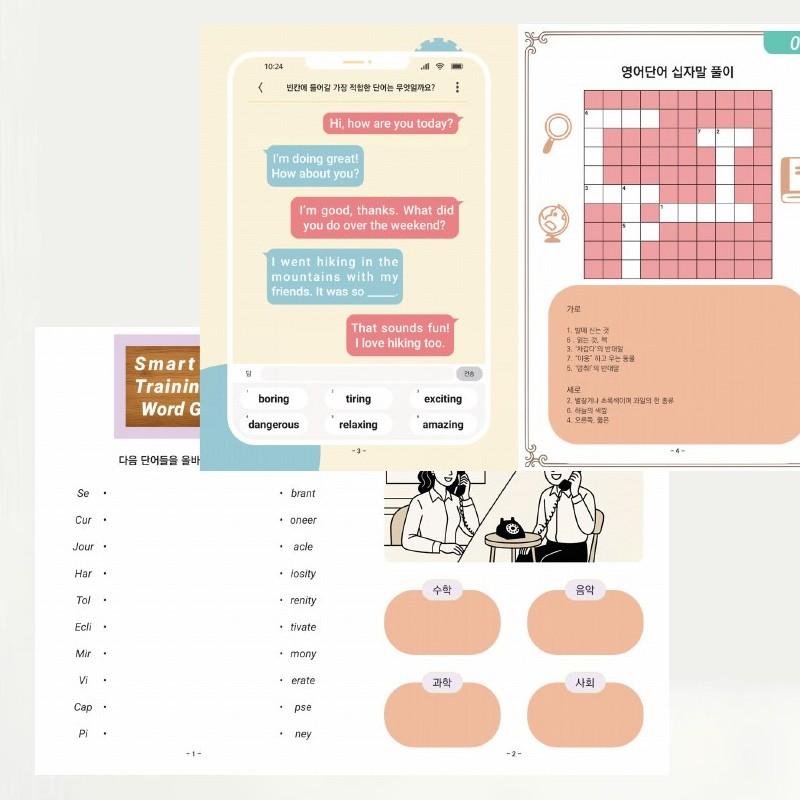
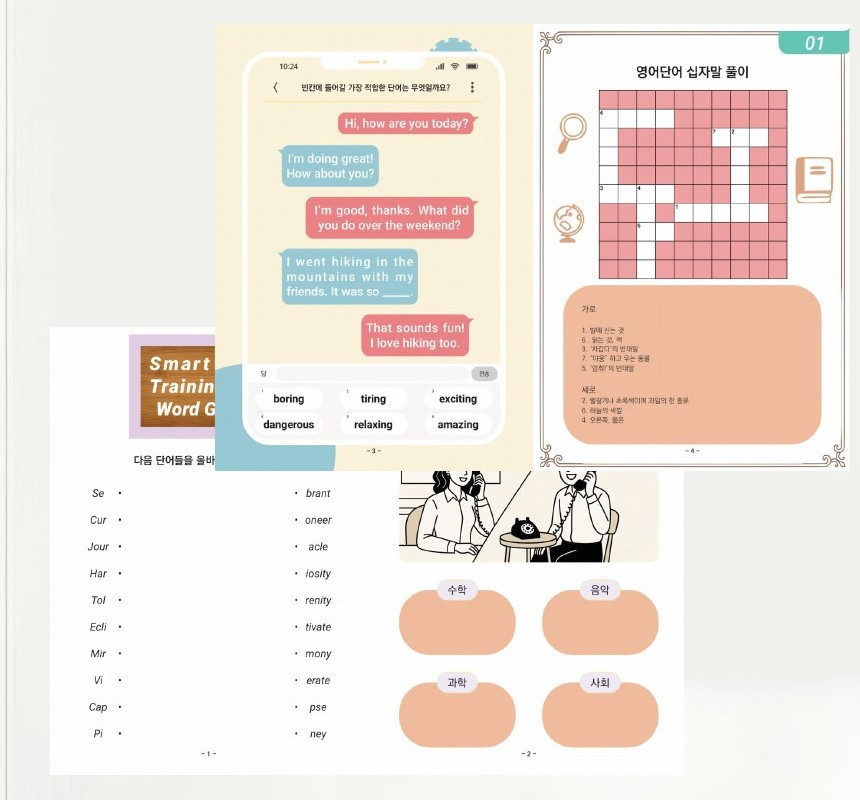
Fix clipped right edge in textbook preview

diff --git a/portfolio/js/main.js b/portfolio/js/main.js
@@ -1,224 +1,1 @@
-// ---------- data (PDF 내용 + QR 링크) ----------
-const assetVersion = '20261115-10';
-const versioned = path => `${path}?v=${assetVersion}`;
-
-const projects = [
-  {
-    img: 'work01', preview: 'project-page05-preview', color: '#b23a3a', type: '인터뷰 기사 작성 프로젝트',
-    title: '특별사법경찰관이 무슨 일인가요?',
-    rows: [
-      ['PROJECT', '인터뷰 기사 작성'],
-      ['INTERVIEW', '소방관 (특별사법경찰관)'],
-      ['ROLE', '인터뷰 진행 · 기사 작성'],
-      ['DESCRIPTION', '당시 이태원 사태로 소방관과 관련된 이야기가 많아, 소방관님과 직접 인터뷰를 진행하여 기사를 작성하였습니다.'],
-    ],
-    links: [['기사 원문 확인', 'https://drive.google.com/file/d/1M7uF8onod1zyjIoaqKnONt20T8Tgd01l/view?usp=drive_link']],
-  },
-  {
-    img: 'page06', preview: 'article-page06-preview', color: '#3d596e', type: '기획 보도 기사 작성 프로젝트',
-    title: '폐광 수직갱도의 미세중력 우주 실험 시설 탈바꿈',
-    rows: [
-      ['PROJECT', '기획 보도 기사 작성'],
-      ['TOPIC', '폐광 수직갱도를 미세중력 우주 실험 시설로 전환하는 계획'],
-      ['DESCRIPTION', '폐광 수직갱도가 미세중력 우주 실험 시설로 탈바꿈하는 내용을 취재해 기사를 작성하였습니다.'],
-    ],
-    links: [['기사 원문 확인', 'https://blog.naver.com/domooa/224474470928']],
-  },
-  {
-    img: 'page07', preview: 'article-page07-preview', color: '#2b4c8c', type: '기획 기사 작성 프로젝트',
-    title: 'K-게임의 글로벌 멀티플랫폼 진출',
-    rows: [
-      ['PROJECT', '기획 기사 작성'],
-      ['ARTICLE', '모바일 우물 벗어난 K-게임, 스팀·콘솔로 글로벌 영토 확장'],
-      ['TOPIC', 'K-게임의 스팀 · 플레이스테이션 · 엑스박스 진출'],
-      ['DESCRIPTION', 'K-게임이 스팀, 플레이스테이션, 엑스박스를 주무대로 삼아 글로벌 시장에 진출하는 흐름을 다룬 기획 기사를 작성하였습니다.'],
-    ],
-    links: [['기사 원문 확인', 'https://blog.naver.com/domooa/224474471193']],
-  },
-  {
-    img: 'work07', preview: 'project-page13-preview', color: '#2b4c8c', type: '마케팅 보고서 작성 프로젝트',
-    title: '「지도가 지구를 덮은 날」 도서 마케팅 기획 보고서',
-    rows: [
-      ['PROJECT', '도서 마케팅 기획 보고서 · 팀 프로젝트'],
-      ['ROLE', '자료조사 (팀원 전원) / Ⅵ 마케팅 전략 ~ Ⅷ 결론 작성'],
-      ['DESCRIPTION', '보고서 작성 당시 자료조사는 팀원 전원이 함께 하였으며, 제가 담당한 부분은 후반부로 Ⅵ 마케팅 전략부터 Ⅷ 결론까지 작성하였습니다.'],
-    ],
-    links: [['보고서 확인', 'https://drive.google.com/file/d/1x0ff32U6h3_ZM-SbGYD7YRTf9yo7YamR/view?usp=drive_link']],
-  },
-  {
-    img: 'work08-full', color: '#a8452c', type: '잡지 제작 프로젝트',
-    title: '추억을 기념하고 시간을 지키다',
-    rows: [
-      ['PROJECT', '잡지 제작 · 팀 프로젝트'],
-      ['CONCEPT', '추억을 보존한다'],
-      ['ROLE', '개인 주제 ‘여행의 추억’ 기획 · 총 11페이지 제작'],
-      ['DESCRIPTION', '팀은 ‘추억을 보존한다’는 컨셉으로 잡지를 제작하였습니다. 저는 여행을 주제로 개인적인 추억을 담아 총 11페이지를 제작하였습니다.'],
-    ],
-    links: [['작품 확인', 'https://drive.google.com/file/d/1ufv8vFVs2itDQLeNyNc5_f5Mc1IZ0M6B/view?usp=drive_link']],
-  },
-  {
-    img: 'work09', preview: 'project-page15-preview', color: '#4f7a3a', type: '그림책 제작 프로젝트',
-    title: '나무의 일기',
-    rows: [
-      ['PROJECT', '그림책 창작'],
-      ['ROLE', '지은이 · 기획'],
-      ['CONCEPT', '세 가지 순서로 읽히는 그림책'],
-      ['DESCRIPTION', '홀수 페이지 순서대로 읽어도, 짝수 페이지 순서대로 읽어도, 평범하게 순서대로 읽어도 이야기가 이어지도록 그림책을 제작하였습니다.'],
-    ],
-    links: [['작품 확인', 'https://drive.google.com/file/d/1ndvXVcpjXv2jd-hqBvwdRHLeSyzYwZVQ/view?usp=drive_link']],
-  },
-  {
-    img: 'work10', preview: 'project-page16-preview', color: '#3d4a5c', type: '단편 영화 제작 프로젝트',
-    title: '비상계단',
-    rows: [
-      ['PROJECT', '단편 공포영화'],
-      ['THEME', '반복되는 공간'],
-      ['ROLE', '촬영 구도 아이디어 제안 · 출연'],
-      ['DESCRIPTION', '반복되는 공간을 주제로 한 짧은 공포영화입니다. 제작 당시 촬영 구도에 대한 아이디어를 내고 직접 영상에 출연하였습니다.'],
-    ],
-    links: [['영상 감상', 'https://drive.google.com/file/d/1mW5WiLdQttEQ1L9NQgHmapidxf_9o4hJ/view?usp=drive_link']],
-  },
-  {
-    img: 'work11', preview: 'project-page17-preview', color: '#7a5a2f', type: '뮤직비디오 제작 프로젝트',
-    title: '과제곡은 힘들어..',
-    rows: [
-      ['PROJECT', '뮤직비디오 제작'],
-      ['ROLE', '팀장 · 촬영 · 편집 · 아이디어 · 출연'],
-      ['DESCRIPTION', '제작 당시 팀장, 촬영, 편집, 아이디어, 출연 등 모든 역할을 담당했습니다. 제 노력과 시간, 열정이 모두 담겨 있는 뮤직비디오입니다.'],
-    ],
-    links: [['영상 감상', 'https://drive.google.com/file/d/14lGKBbBSIVEFMilGc3l_1F6XK7Wp2NdK/view?usp=drive_link']],
-  },
-  {
-    img: 'work12', preview: 'project-page18-preview', color: '#c0613f', type: '영어 교과서 내지 제작 프로젝트',
-    title: '영어 교과서 내지 제작',
-    rows: [
-      ['PROJECT', '교재 내지 디자인'],
-      ['REFERENCE', '퍼즐 · 십자말풀이'],
-      ['DESCRIPTION', '문제를 풀이하는 사람이 즐거웠으면 하는 마음으로 퍼즐이나 십자말풀이 등을 레퍼런스로 찾고, 이를 참고하여 문제를 만들었습니다.'],
-    ],
-    links: [['내지 확인', 'https://drive.google.com/file/d/1Q5s6tbgZPGnEjQB8IsYFsNrGe7HOeA7e/view?usp=drive_link']],
-  },
-];
-
-const articles = [
-  { img: 'work02', page: 8, src: '한겨레', color: '#1f6f5c', title: '출판계 “출판물에 AI 활용 정도 밝히는 ‘표시 제도’ 도입하자”', url: 'https://blog.naver.com/domooa/224426377458' },
-  { img: 'work03', page: 9, src: '경향게임스', color: '#2b4c8c', title: '[인터뷰] ‘평균 연령 40.1세’ 격투게임 대표팀, 아시안 게임 금메달로 증명한 ‘열정의 힘’', url: 'https://blog.naver.com/domooa/224445641339' },
-  { img: 'work04', page: 10, src: '경향게임스', color: '#2b4c8c', title: '[지스타 2026] 조영기 게임산업협회장, “외연 확장…차별화로 글로벌 게임쇼 키울 것”', url: 'https://blog.naver.com/domooa/224425281674' },
-  { img: 'work05', page: 11, src: '경향게임스', color: '#2b4c8c', title: '[인터뷰] LoL 개발진, “올해 모토는 ‘백 투 더 베이직’…포지션 정체성·전략적 창의성에 집중”', url: 'https://blog.naver.com/domooa/224423980551' },
-  { img: 'work06', page: 12, src: '경향게임스', color: '#2b4c8c', title: '[줌인 인터뷰-플리더스] ‘오픈형’ 테스트 플랫폼, 유저-개발자 ‘함께 완성하는 게임’', url: 'https://blog.naver.com/domooa/224423474796' },
-];
-
-const pageNames = ['표지', '목차', '저는 이런 사람입니다!', '이런 사람은 어떠신가요?', '특별사법경찰관이 무슨 일인가요?',
-  '폐광 수직갱도 우주 실험 시설 기획 보도', 'K-게임 글로벌 멀티플랫폼 진출 기획 기사', '출판 뉴스 기사 분석',
-  '경향게임스 기사 분석 1', '경향게임스 기사 분석 2', '경향게임스 LoL 개발진 기사 분석',
-  '경향게임스 플리더스 기사 분석', '도서 마케팅 기획 보고서',
-  '추억을 기념하고 시간을 지키다', '나무의 일기', '비상계단', '과제곡은 힘들어..', '영어 교과서 내지 제작', '마무리', '뒷표지'];
-
-const zoomPageByImage = {
-  work01: 5, work02: 6, work03: 7, work04: 8, work05: 11, work06: 12,
-  work07: 13, 'work08-full': 14, work09: 15, work10: 16, work11: 17, work12: 18,
-  page06: 6, page07: 7,
-};
-
-// ---------- render ----------
-const esc = s => s.replace(/[&<>"]/g, c => ({ '&': '&amp;', '<': '&lt;', '>': '&gt;', '"': '&quot;' }[c]));
-
-document.getElementById('projects').innerHTML = projects.map((p, i) => {
-  const page = versioned(`images/page${String(zoomPageByImage[p.img]).padStart(2, '0')}.jpg`);
-  const thumbnail = p.preview || p.img;
-  return `
-  <article class="project reveal" style="--c:${p.color}">
-    <div class="visual"><img src="${versioned(`images/${thumbnail}.jpg`)}" alt="${esc(p.title)} 미리보기" loading="lazy" data-zoom="${page}"></div>
-    <div class="head"><h3>${esc(p.title)}</h3><span>${esc(p.type)}</span></div>
-    <dl>${p.rows.map(([k, v]) => `<div><dt>${k}</dt><dd>${esc(v)}</dd></div>`).join('')}</dl>
-    <div class="btns">${p.links.map(([t, u]) => `<a class="btn" href="${u}" target="_blank" rel="noopener">${t}</a>`).join('')}</div>
-  </article>`;
-}).join('');
-
-document.getElementById('articles').innerHTML = articles.map((a, i) => `
-  <div class="acard" style="--c:${a.color}">
-    <div class="thumb"><img src="images/${a.img}.jpg" alt="${esc(a.src)} 기사 분석" loading="lazy" data-zoom="${versioned(`images/page${String(a.page).padStart(2, '0')}.jpg`)}"></div>
-    <div class="body">
-      <span class="src">${a.src}</span>
-      <h4>${esc(a.title)}</h4>
-      <a class="btn" href="${a.url}" target="_blank" rel="noopener">기사 분석 확인</a>
-    </div>
-  </div>`).join('');
-
-const pagesEl = document.getElementById('pages');
-pagesEl.innerHTML = pageNames.map((n, i) => {
-  const f = `images/page${String(i + 1).padStart(2, '0')}.jpg`;
-  return `<figure data-idx="${i}"><img src="${versioned(f)}" alt="${esc(n)}" loading="lazy"><figcaption>${String(i + 1).padStart(2, '0')}. ${esc(n)}</figcaption></figure>`;
-}).join('');
-
-// ---------- typing ----------
-const typing = document.querySelector('.typing');
-const text = typing.dataset.text;
-let t = 0;
-(function type() {
-  typing.textContent = text.slice(0, ++t);
-  if (t < text.length) setTimeout(type, 110);
-})();
-
-// ---------- nav + progress ----------
-const links = [...document.querySelectorAll('.gnb a')];
-const bar = document.querySelector('.progress span');
-const map = { home: 'home', about: 'about', ability: 'about', portfolio: 'portfolio', analysis: 'portfolio', book: 'portfolio', contact: 'contact' };
-const secs = Object.keys(map).map(id => document.getElementById(id));
-function onScroll() {
-  const h = document.documentElement;
-  bar.style.width = (h.scrollTop / (h.scrollHeight - h.clientHeight) * 100) + '%';
-  let cur = 'home';
-  secs.forEach(s => { if (s.getBoundingClientRect().top <= innerHeight * 0.35) cur = map[s.id]; });
-  if (innerHeight + scrollY >= h.scrollHeight - 4) cur = 'contact';
-  links.forEach(a => a.classList.toggle('on', a.getAttribute('href') === '#' + cur));
-}
-addEventListener('scroll', onScroll, { passive: true });
-onScroll();
-
-// ---------- reveal ----------
-const io = new IntersectionObserver(es => es.forEach(e => {
-  if (e.isIntersecting) { e.target.classList.add('show'); io.unobserve(e.target); }
-}), { threshold: 0.12 });
-document.querySelectorAll('.reveal').forEach(el => io.observe(el));
-
-// ---------- slider ----------
-document.querySelectorAll('.slider .arrow').forEach(b => b.addEventListener('click', () => {
-  const step = pagesEl.querySelector('figure').offsetWidth + 20;
-  pagesEl.scrollBy({ left: b.classList.contains('next') ? step : -step });
-}));
-
-// ---------- lightbox ----------
-const lb = document.getElementById('lightbox');
-const lbImg = lb.querySelector('img');
-const lbCount = lb.querySelector('.count');
-const all = pageNames.map((_, i) => versioned(`images/page${String(i + 1).padStart(2, '0')}.jpg`));
-let cur = 0;
-function show(i) {
-  cur = (i + all.length) % all.length;
-  lbImg.src = all[cur];
-  lbImg.alt = pageNames[cur];
-  lbCount.textContent = `${cur + 1} / ${all.length}`;
-}
-function open(src) {
-  show(Math.max(0, all.indexOf(src)));
-  lb.hidden = false;
-  document.body.style.overflow = 'hidden';
-}
-function close() { lb.hidden = true; document.body.style.overflow = ''; }
-document.addEventListener('click', e => {
-  const z = e.target.closest('[data-zoom]');
-  if (z) return open(z.dataset.zoom);
-  const f = e.target.closest('#pages figure');
-  if (f) return open(all[+f.dataset.idx]);
-});
-lb.querySelector('.close').onclick = close;
-lb.querySelector('.prev').onclick = () => show(cur - 1);
-lb.querySelector('.next').onclick = () => show(cur + 1);
-lb.addEventListener('click', e => { if (e.target === lb) close(); });
-addEventListener('keydown', e => {
-  if (lb.hidden) return;
-  if (e.key === 'Escape') close();
-  if (e.key === 'ArrowLeft') show(cur - 1);
-  if (e.key === 'ArrowRight') show(cur + 1);
-});
+const assetVersion = '20261115-11';

diff --git a/portfolio/index.html b/portfolio/index.html
@@ -9,7 +9,7 @@
   <link rel="preconnect" href="https://fonts.gstatic.com" crossorigin>
   <link href="https://fonts.googleapis.com/css2?family=Judson:ital,wght@0,400;0,700;1,400&family=Nanum+Pen+Script&display=swap" rel="stylesheet">
   <link rel="stylesheet" href="https://cdn.jsdelivr.net/gh/orioncactus/pretendard@v1.3.9/dist/web/static/pretendard.min.css">
-  <link rel="stylesheet" href="css/style.css?v=20261115-10">
+  <link rel="stylesheet" href="css/style.css?v=20261115-11">
 </head>
 <body>
   <div class="progress" aria-hidden="true"><span></span></div>
@@ -191,6 +191,6 @@
     <span class="count"></span>
   </div>
 
-  <script src="js/main.js?v=20261115-10"></script>
+  <script src="js/main.js?v=20261115-11"></script>
 </body>
 </html>
